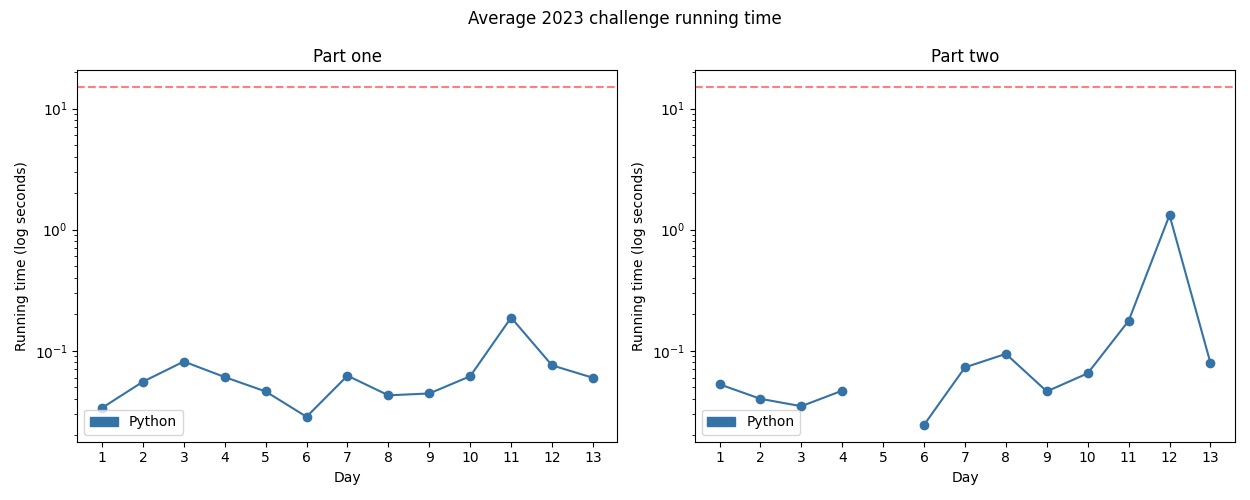
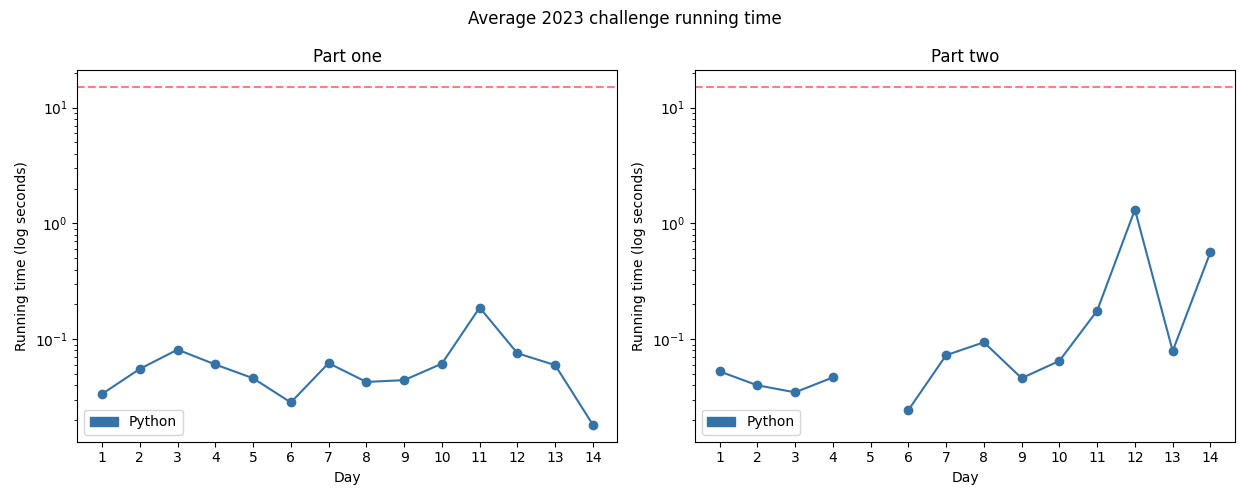
2023.14

diff --git a/challenges/2023/14-parabolicReflectorDish/main.py b/challenges/2023/14-parabolicReflectorDish/main.py
@@ -1,0 +1,105 @@
+import sys
+from enum import Enum, auto
+
+
+def parse(instr: str) -> tuple[str]:
+    return tuple(instr.splitlines())
+
+
+class TiltDirection(Enum):
+    North = auto()
+    East = auto()
+    South = auto()
+    West = auto()
+
+
+def flip_platform(p: tuple[str]) -> tuple[str]:
+    return tuple(map(lambda x: "".join(x), zip(*p)))
+
+
+def tilt_platform(platform: tuple[str], direction: TiltDirection) -> tuple[str]:
+    if direction == TiltDirection.North or direction == TiltDirection.South:
+        platform = flip_platform(platform)
+
+    if direction == TiltDirection.North or direction == TiltDirection.West:
+        transformation = lambda x: x.replace(".O", "O.")
+    else:
+        transformation = lambda x: x.replace("O.", ".O")
+
+    res = []
+
+    for line in platform:
+        prev = ""
+        l = line
+        while prev != l:
+            prev = l
+            l = transformation(l)
+
+        res.append(l)
+
+    if direction == TiltDirection.North or direction == TiltDirection.South:
+        res = flip_platform(res)
+
+    return tuple(res)
+
+
+def calc_north_load(platform: tuple[str]) -> int:
+    acc = 0
+    for y, line in enumerate(platform):
+        for x, char in enumerate(line):
+            if char != "O":
+                continue
+            acc += len(platform) - y
+    return acc
+
+
+def one(instr: str):
+    platform = parse(instr)
+    platform = tilt_platform(platform, TiltDirection.North)
+    return calc_north_load(platform)
+
+
+def two(instr: str):
+    platform = parse(instr)
+
+    ITERS = 1_000_000_000
+
+    i = 0
+    known = {}
+    jumped = False
+    while i < ITERS:
+        for direction in [
+            TiltDirection.North,
+            TiltDirection.West,
+            TiltDirection.South,
+            TiltDirection.East,
+        ]:
+            platform = tilt_platform(platform, direction)
+
+        if not jumped:
+            if platform in known:
+                last_occurrence = known[platform]
+                period = i - last_occurrence
+                i += ((ITERS - i) // period) * period
+                jumped = True
+            else:
+                known[platform] = i
+        i += 1
+
+    return calc_north_load(platform)
+
+
+def _debug(*args, **kwargs):
+    kwargs["file"] = sys.stderr
+    print(*args, **kwargs)
+
+
+if __name__ == "__main__":
+    if len(sys.argv) < 2 or sys.argv[1] not in ["1", "2"]:
+        print("Missing day argument", file=sys.stderr)
+        sys.exit(1)
+    inp = sys.stdin.read().strip()
+    if sys.argv[1] == "1":
+        print(one(inp))
+    else:
+        print(two(inp))

diff --git a/challenges/2023/README.md b/challenges/2023/README.md
@@ -25,3 +25,4 @@ Solutions to the [2023 Advent of Code](https://adventofcode.com/2023).
 | 11 - Cosmic Expansion | ★ ★ | Python | Djikstra's and A* are the wrong way to do this (I tried both before engaging my brain) and then had to optimise various things for part 2 but nothing was horrendous. |
 | 12 - Hot Springs | ★ ★ | Python | Some hints from the subreddit were needed but they got me well on my way to completing this. Memoisation is king, long live memoisation. |
 | 13 - Point of Incidence | ★ ★ | Python | This one made me feel slightly intelligent. |
+| 14 - Parabolic Reflector Dish | ★ ★ | Python | Why do I always overcomplicate cycle detection?! |

diff --git a/challenges/2023/14-parabolicReflectorDish/README.md b/challenges/2023/14-parabolicReflectorDish/README.md
@@ -1,0 +1,1 @@
+# [Day 14: Parabolic Reflector Dish](https://adventofcode.com/2023/day/14)
